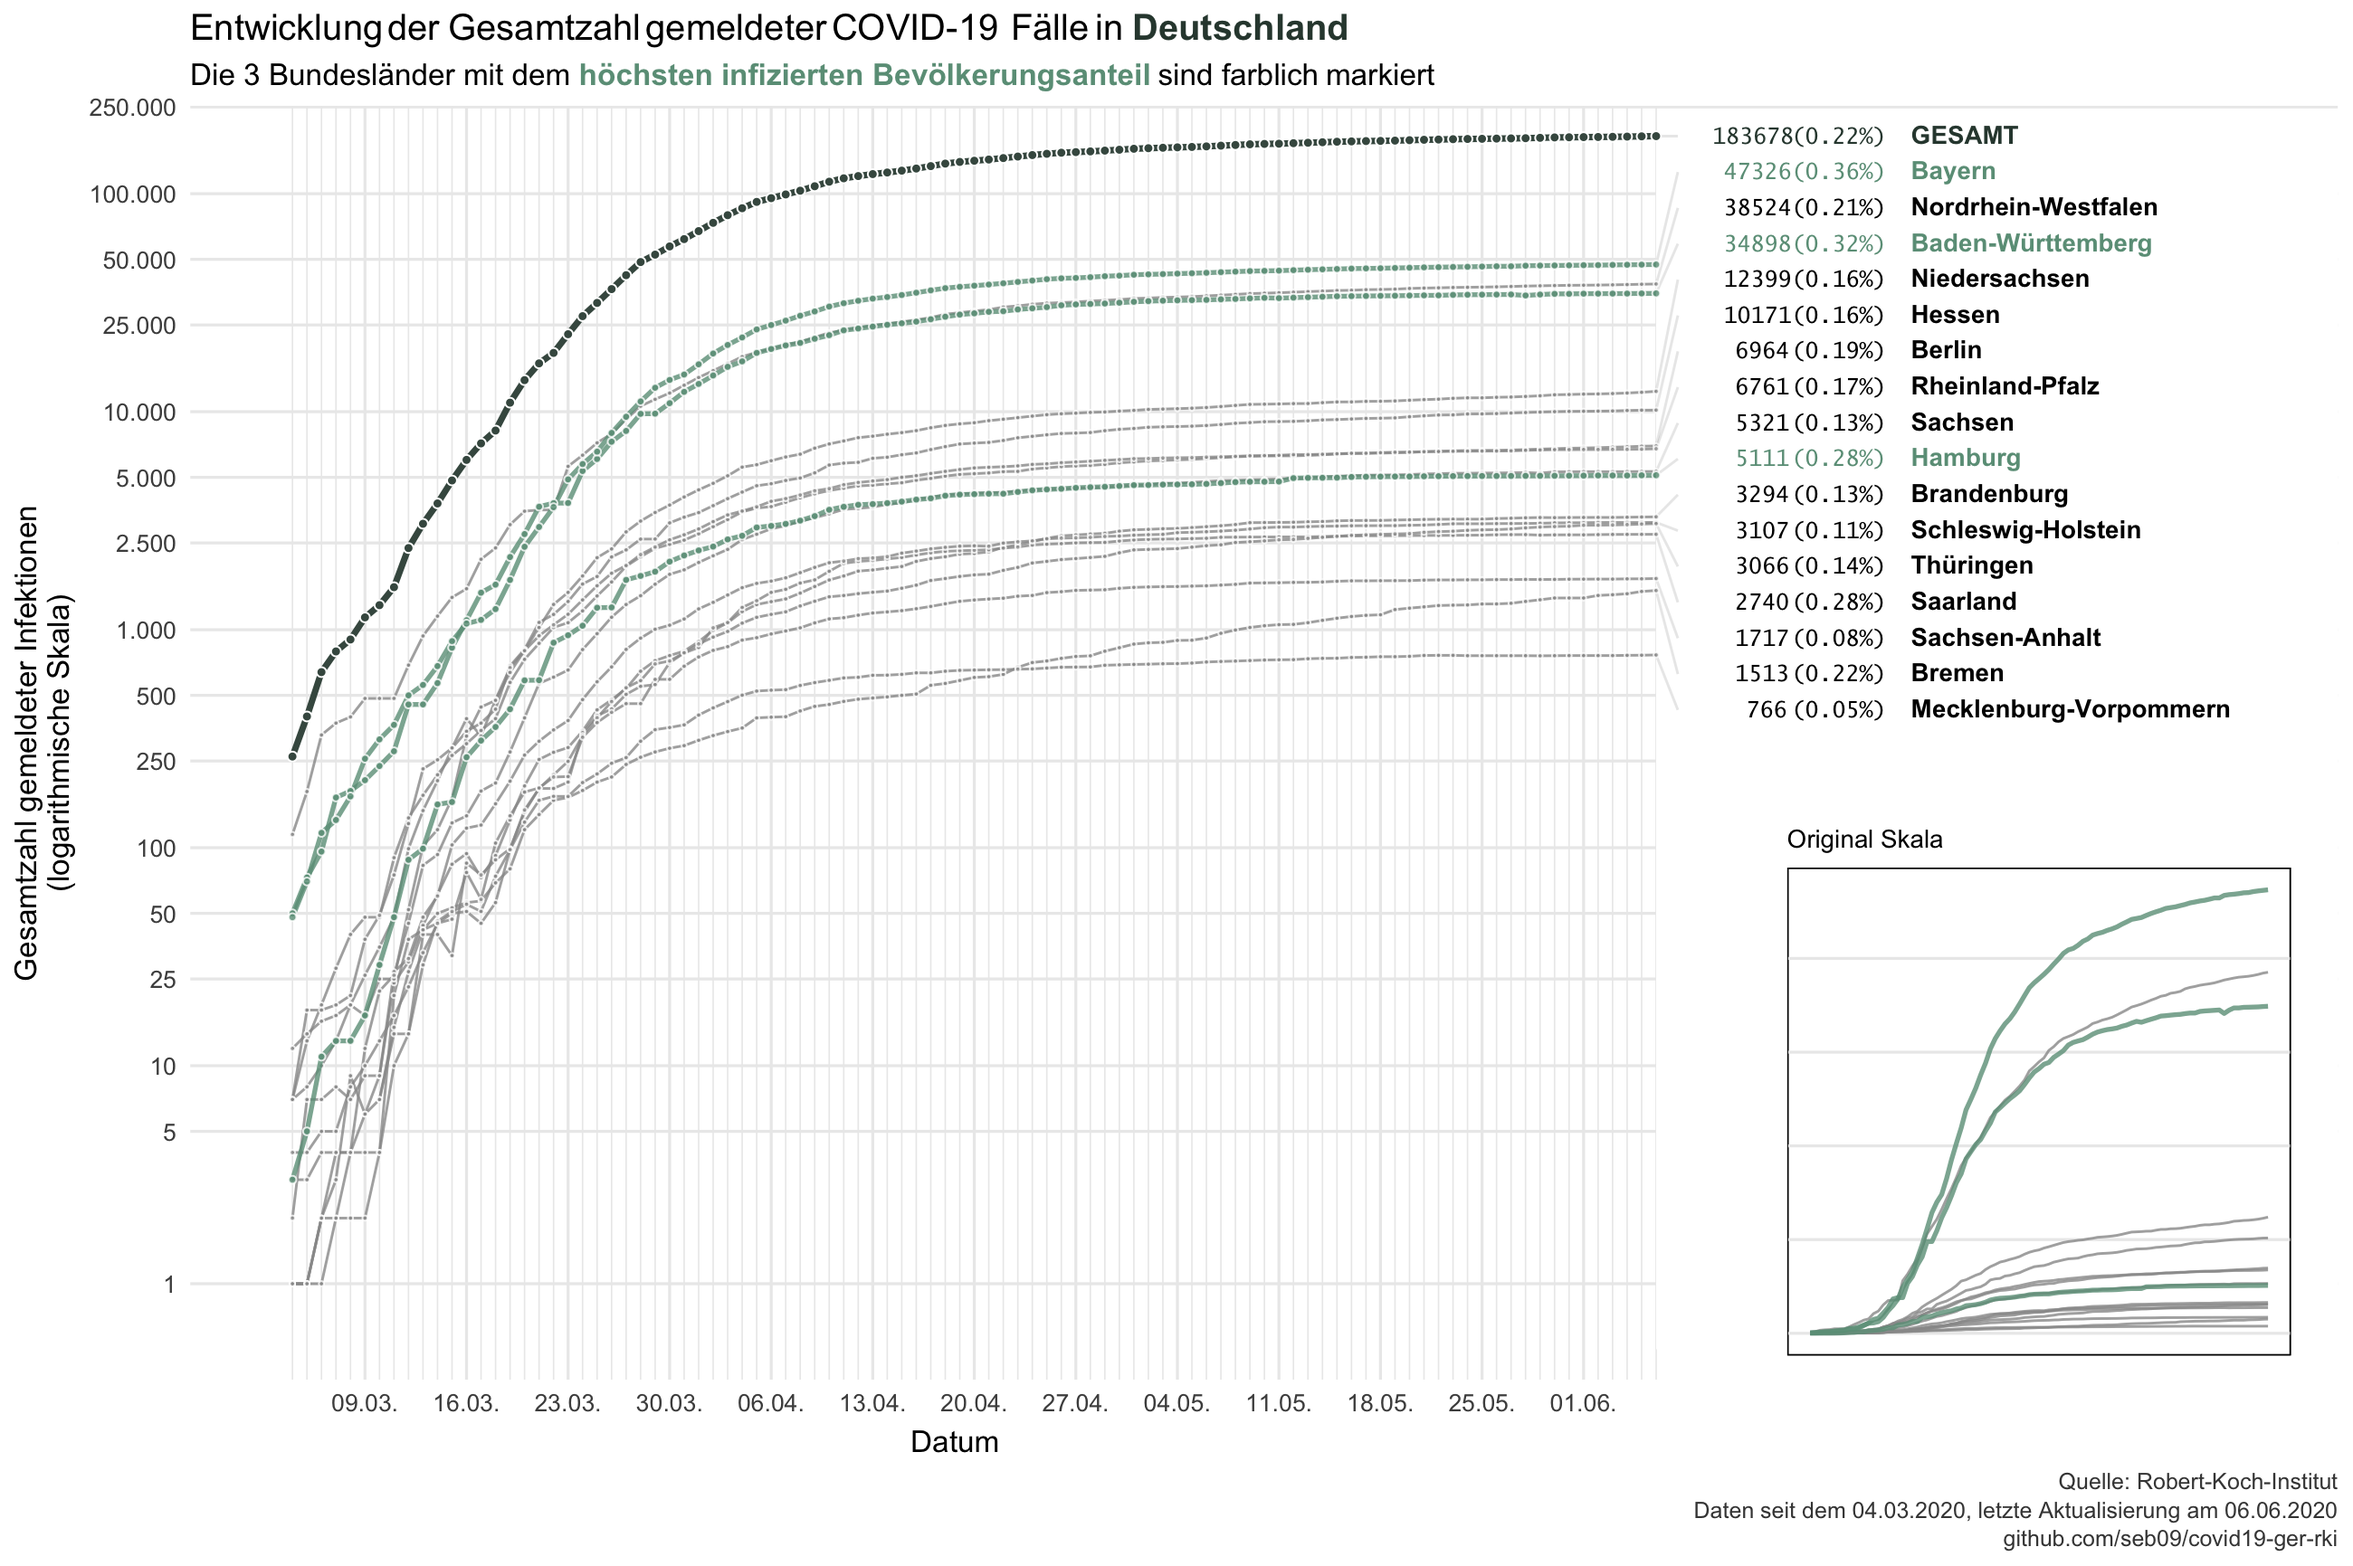
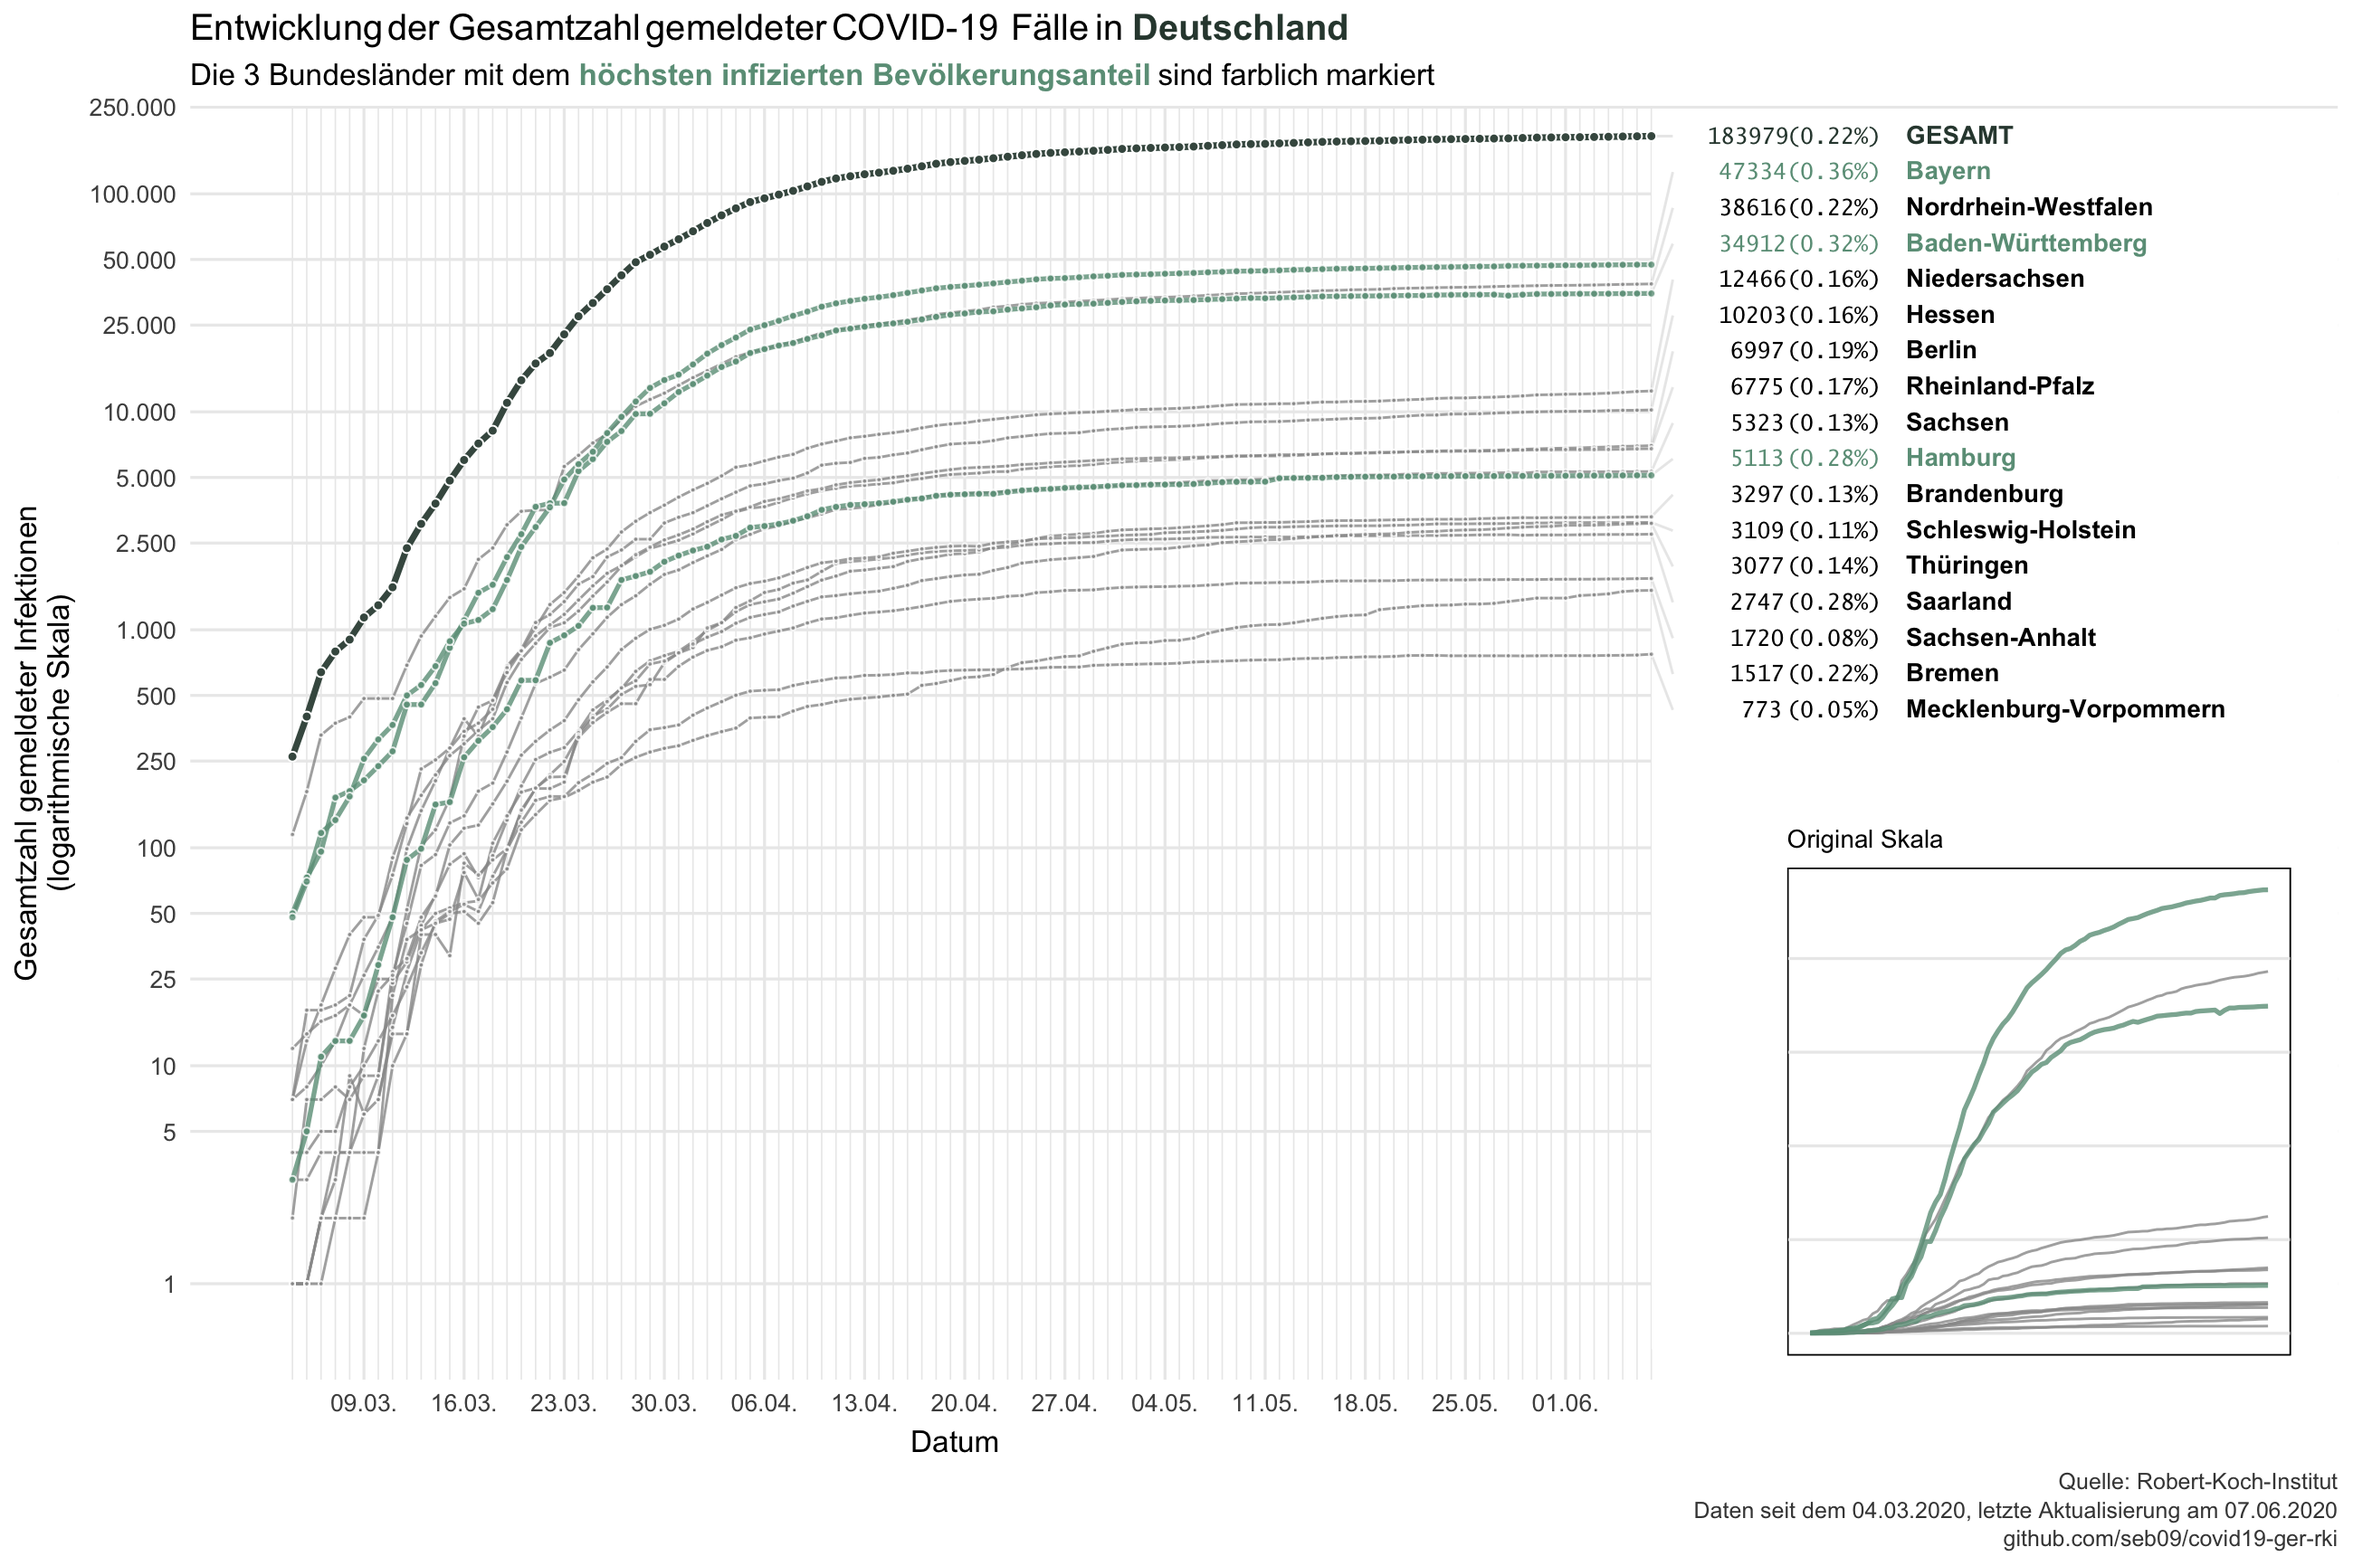
daily update 2020-06-07

diff --git a/README.md b/README.md
@@ -1,6 +1,6 @@
 Data from the Robert-Koch-Institut on COVID-19 in Germany
 ================
-Last update: 2020-06-06
+Last update: 2020-06-07
 
 This repository contains data on reported COVID-19 cases in Germany and
 its federal states that is published daily by the Robert-Koch-Institut
@@ -14,26 +14,26 @@ corona_rki %>%
   print(n = 16)
 ```
 
-    ## # A tibble: 1,514 x 6
+    ## # A tibble: 1,530 x 6
     ##    Datum      Bundesland      Fallzahl Todeszahl Fallzahl_neu Todeszahl_neu
     ##    <date>     <chr>              <dbl>     <dbl>        <dbl>         <dbl>
-    ##  1 2020-06-06 Baden-Württemb…    34898      1790           28            12
-    ##  2 2020-06-06 Bayern             47326      2489           58             8
-    ##  3 2020-06-06 Berlin              6964       201           18             1
-    ##  4 2020-06-06 Brandenburg         3294       158            6             2
-    ##  5 2020-06-06 Bremen              1513        44           15             0
-    ##  6 2020-06-06 Hamburg             5111       254            4             1
-    ##  7 2020-06-06 Hessen             10171       483            8             1
-    ##  8 2020-06-06 Mecklenburg-Vo…      766        20            2             0
-    ##  9 2020-06-06 Niedersachsen      12399       605          122             1
-    ## 10 2020-06-06 Nordrhein-West…    38524      1622           85             5
-    ## 11 2020-06-06 Rheinland-Pfalz     6761       230           29             0
-    ## 12 2020-06-06 Saarland            2740       166            2             0
-    ## 13 2020-06-06 Sachsen             5321       212            6             0
-    ## 14 2020-06-06 Sachsen-Anhalt      1717        55            5             0
-    ## 15 2020-06-06 Schleswig-Hols…     3107       147            4             1
-    ## 16 2020-06-06 Thüringen           3066       170           15             1
-    ## # … with 1,498 more rows
+    ##  1 2020-06-07 Baden-Württemb…    34912      1791           14             1
+    ##  2 2020-06-07 Bayern             47334      2501            8            12
+    ##  3 2020-06-07 Berlin              6997       205           33             4
+    ##  4 2020-06-07 Brandenburg         3297       158            3             0
+    ##  5 2020-06-07 Bremen              1517        44            4             0
+    ##  6 2020-06-07 Hamburg             5113       254            2             0
+    ##  7 2020-06-07 Hessen             10203       484           32             1
+    ##  8 2020-06-07 Mecklenburg-Vo…      773        20            7             0
+    ##  9 2020-06-07 Niedersachsen      12466       605           67             0
+    ## 10 2020-06-07 Nordrhein-West…    38616      1623           92             1
+    ## 11 2020-06-07 Rheinland-Pfalz     6775       230           14             0
+    ## 12 2020-06-07 Saarland            2747       166            7             0
+    ## 13 2020-06-07 Sachsen             5323       214            2             2
+    ## 14 2020-06-07 Sachsen-Anhalt      1720        56            3             1
+    ## 15 2020-06-07 Schleswig-Hols…     3109       147            2             0
+    ## 16 2020-06-07 Thüringen           3077       170           11             0
+    ## # … with 1,514 more rows
 
 Data is downloaded each day at 11am from the [website of the
 RKI](https://www.rki.de/DE/Content/InfAZ/N/Neuartiges_Coronavirus/Fallzahlen.html)
